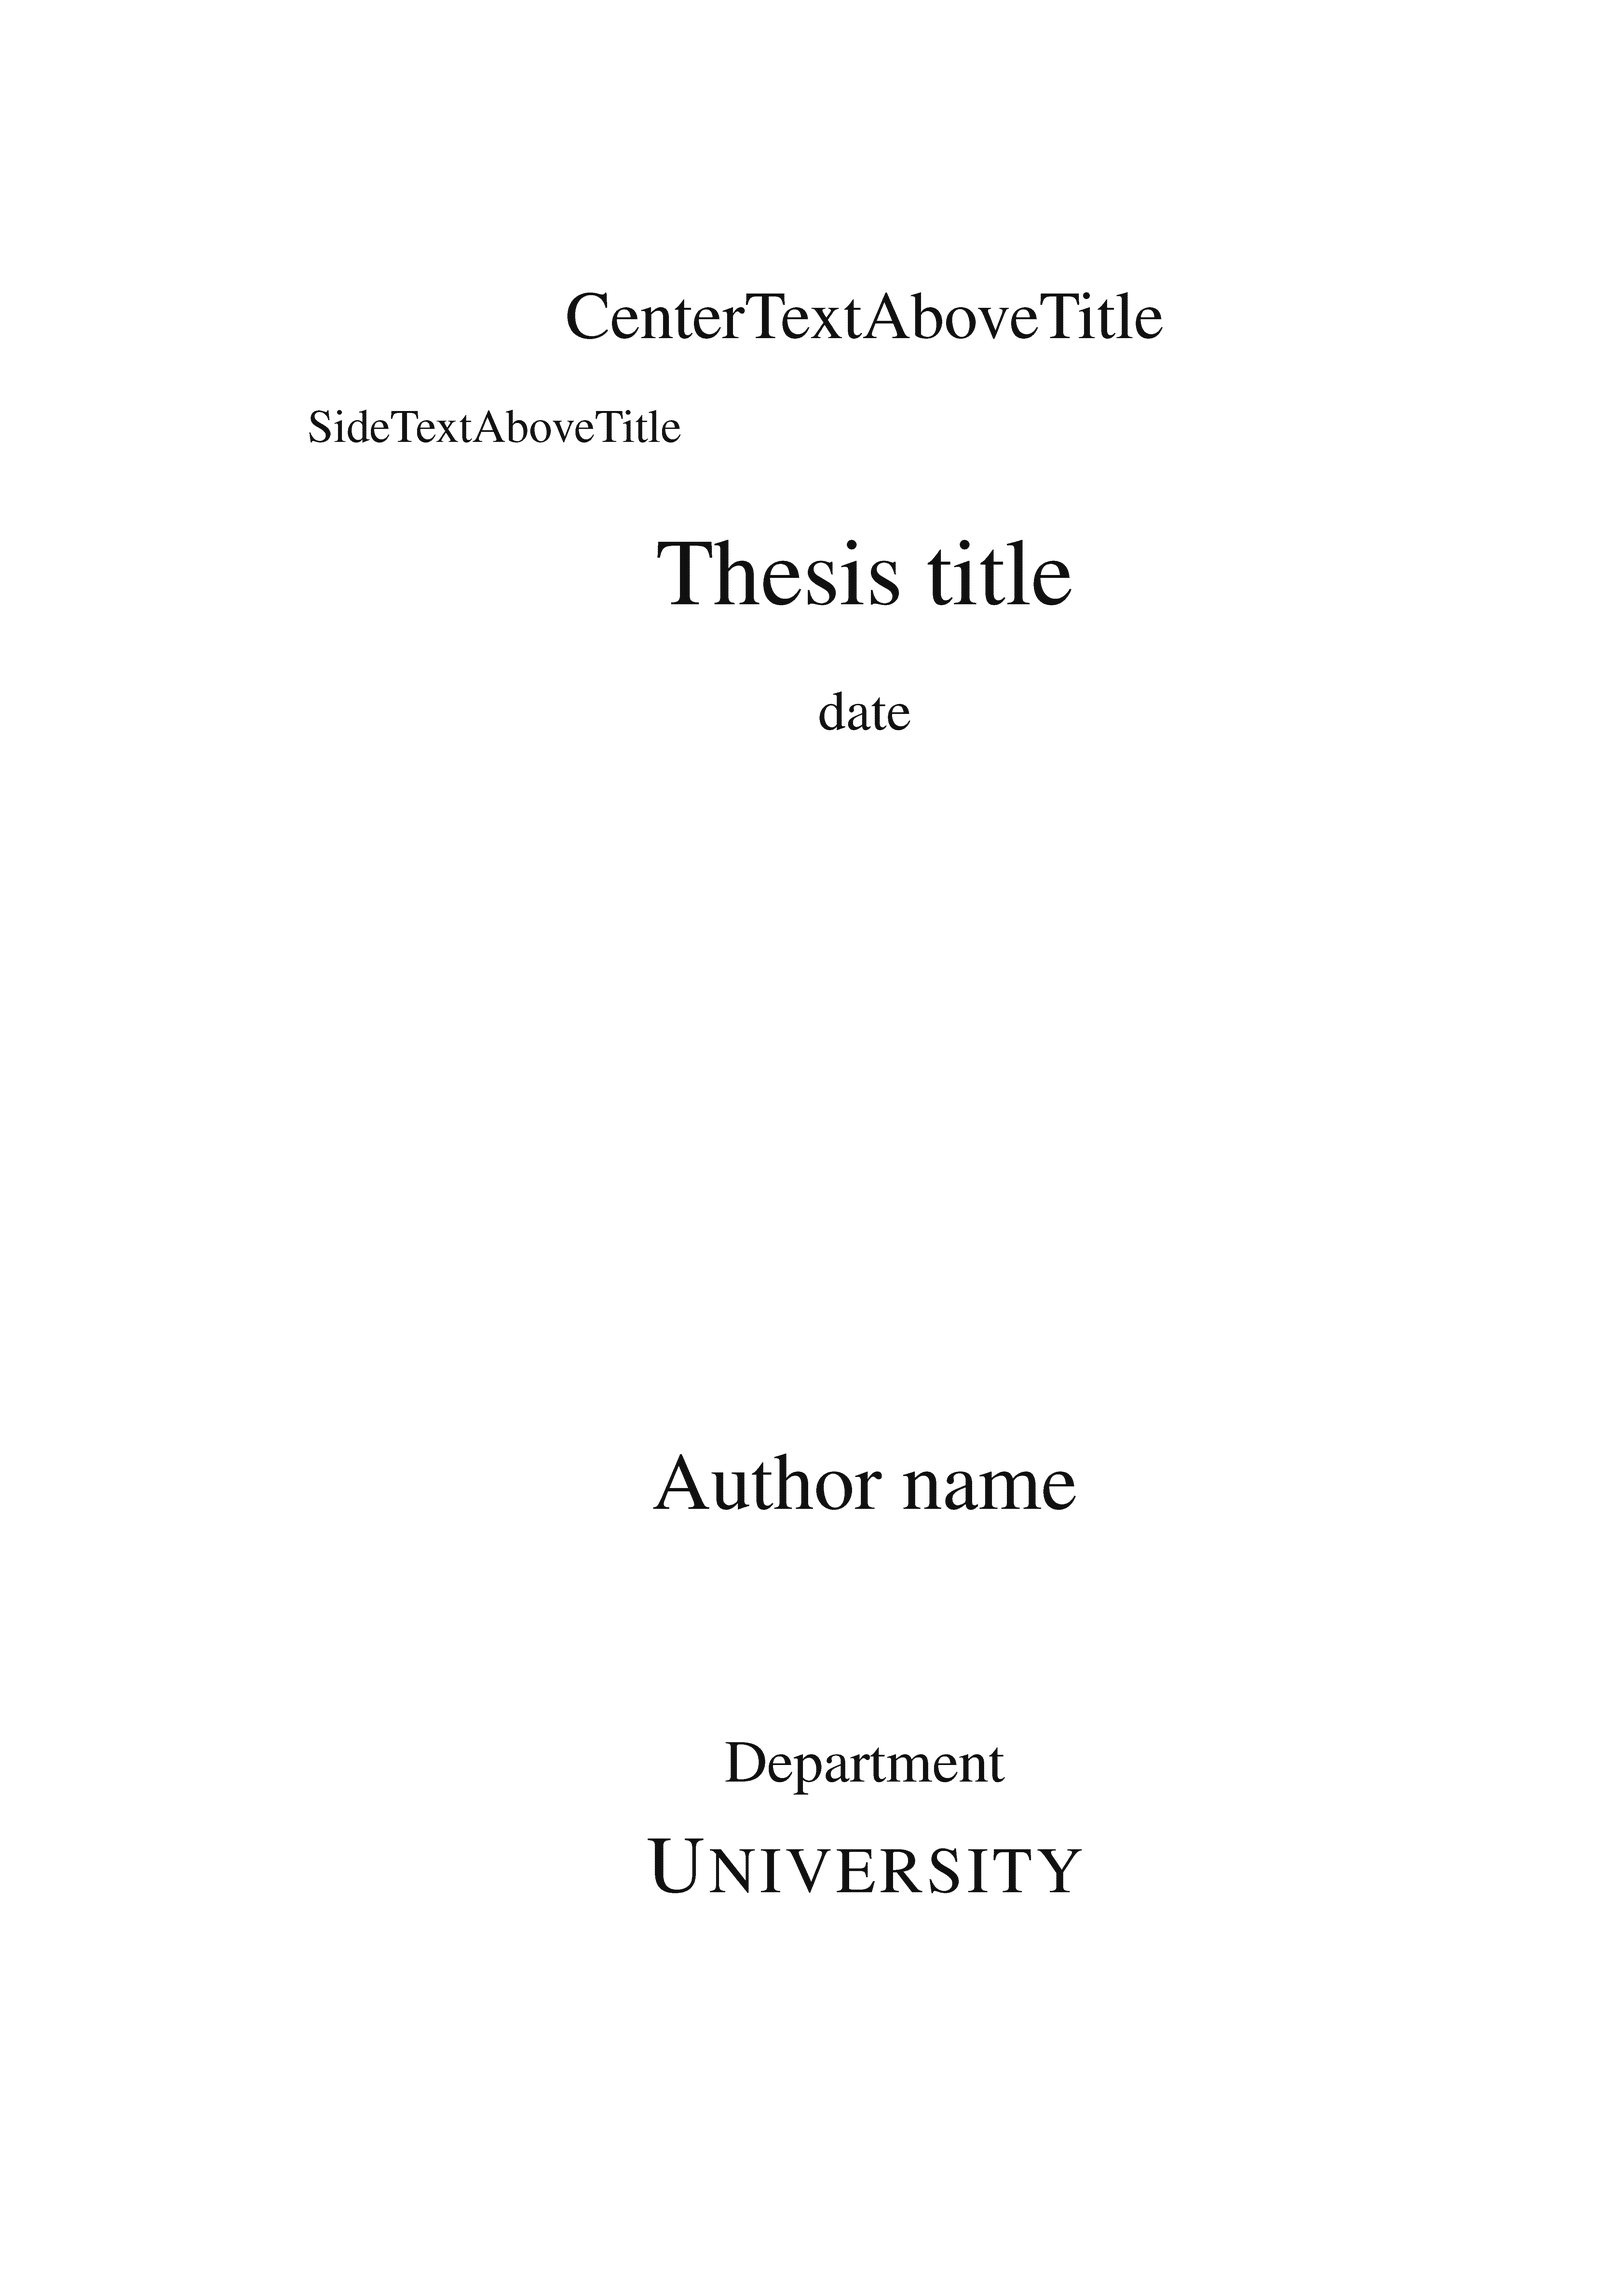
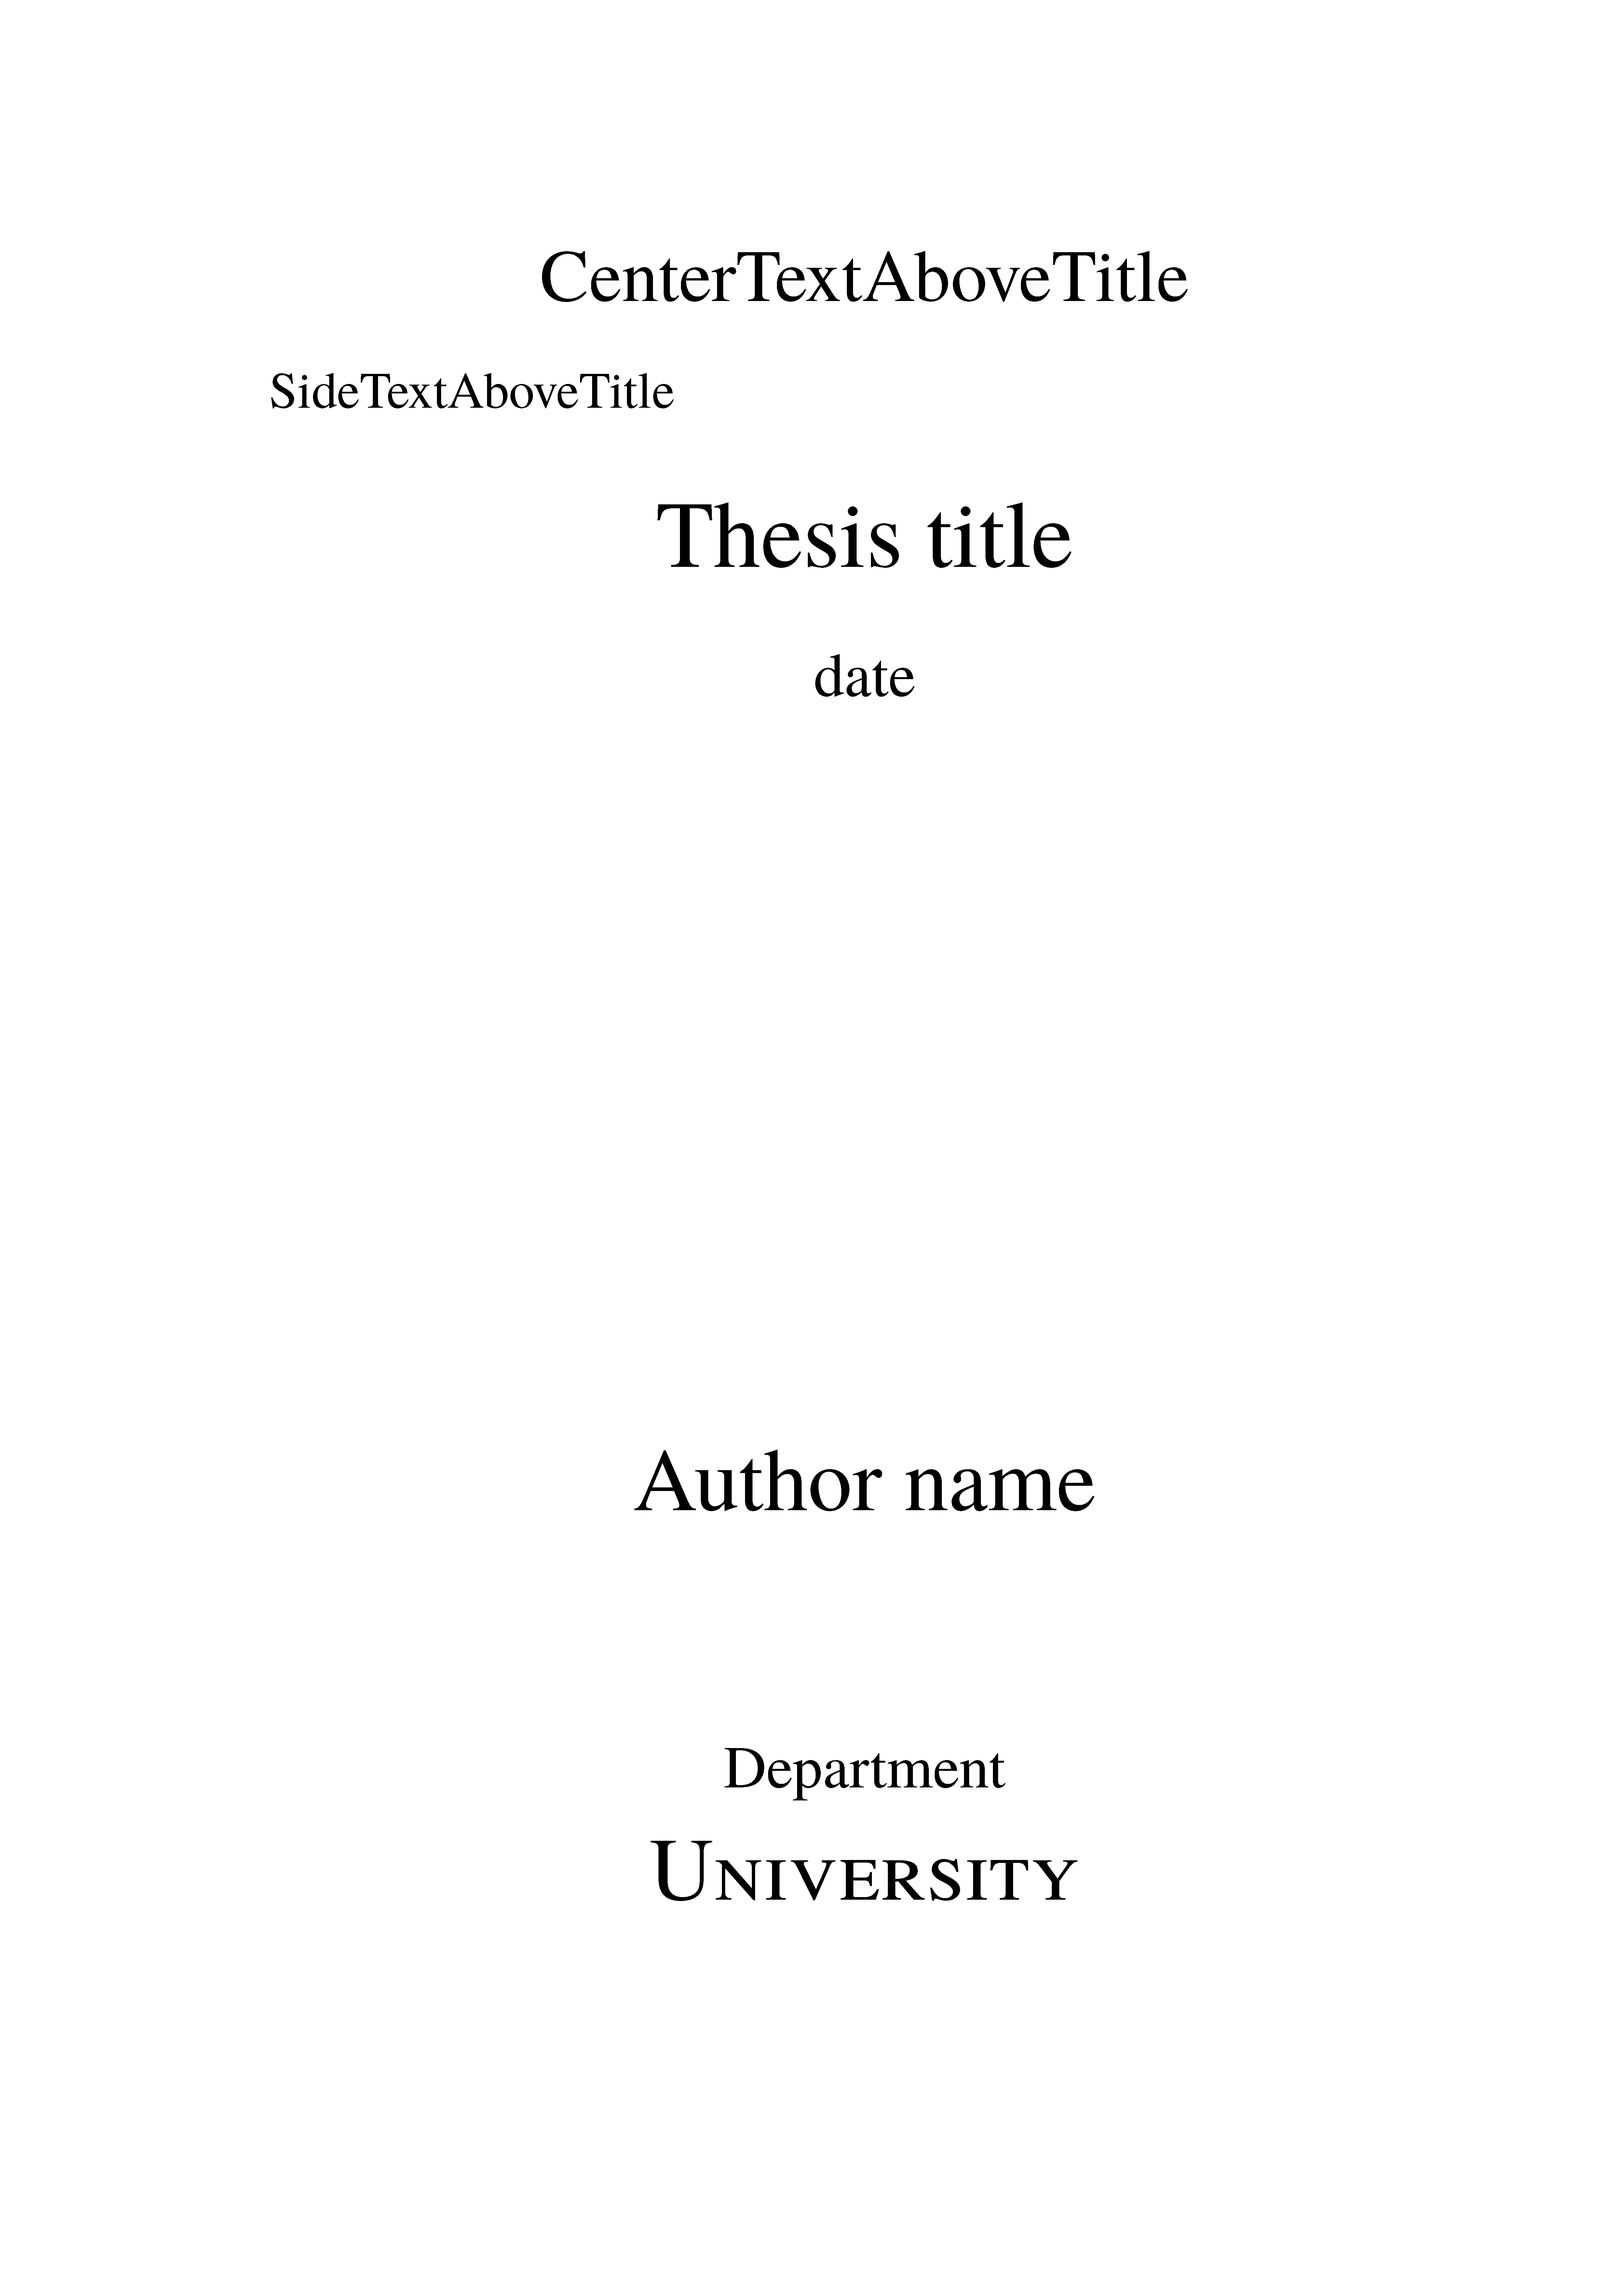
add times option & modify ja

diff --git a/sample.tex b/sample.tex
@@ -1,27 +1,102 @@
 \documentclass[
 	english,
-	fontsize=10pt,
-	left=40truemm,
-	right=25truemm,
-	% top=15truemm,
-	% bottom=20truemm,
-	% headrule,
+	times,
+	fontsize = 11pt,
+	left     = 35truemm,
+	right    = 20truemm,
+	top      = 15truemm,
+	bottom   = 20truemm,
+	headrule,
+	% draft,
+	% tombo,
 	% headfontsc,
-	% headsep=10truemm,
-	% fleqn
+	% headsep  = 10truemm,
+	fleqn,
+	reversemarginpar
 ]{ckthesis}
 
 
 %%%%%%%%%%%%%%%%%%%%%%%%%%%%%%%%%%%%%%%%%%%%%%%%%%%%%%%%%%%%%%%%%%
 % preamble
 %%%%%%%%%%%%%%%%%%%%%%%%%%%%%%%%%%%%%%%%%%%%%%%%%%%%%%%%%%%%%%%%%%
+% figure
+% \graphicspath{%
+% 	...
+% }
 
 %===============================%
-% packages
+% math font
 %===============================%
+% \usepackage[
+% 	subscriptcorrection,
+% 	slantedGreek,
+% 	nofontinfo,
+% 	mtpcal
+% ]{mtpro2}
+
+
+%===============================%
+% math packages
+%===============================%
+% math
+\usepackage{amsmath}
+\usepackage{mathtools}
+\usepackage{empheq}
+\usepackage{bm}
+\usepackage{siunitx}
 \usepackage{physics}
 \usepackage{braket} % after reading physics package
+
+
+%===============================%
+% todo
+%===============================%
+\usepackage[
+        textsize=scriptsize,
+        % textsize=footnotesize,
+        % color=Magenta,
+        linecolor=Magenta,
+        bordercolor=Magenta,
+        backgroundcolor=White,
+        disable
+        % textcolor
+]{todonotes}
+\usepackage{soul}
+\makeatletter
+	\if@todonotes@disabled
+	\newcommand{\hlnote}[3][0pt]{#2}
+	\else
+	\newcommand{\hlnote}[3][0pt]{\texthl{#2}\vspace{-#1}\todo{#3}\vspace{#1}}
+	\fi
+\makeatother
+
+
+%===============================%
+% caption
+%===============================%
+\usepackage{caption}
+\captionsetup[figure]{
+	textfont={small},
+	labelfont={sf,bf,small},
+	margin=0pt,
+	labelsep=space,
+	name=Figure\ {}%
+}
+\captionsetup[table]{
+	textfont={small},
+	labelfont={sf,bf,small},
+	margin=0pt,
+	labelsep=space,
+	name=Table\ {}%
+}
+
+
+%===============================%
+% other packages
+%===============================%
+\usepackage{xspace}
 \usepackage{here}
+\usepackage{enumitem}
 \usepackage[cmyk,dvipsnames]{xcolor}
 \usepackage[bookmarks]{hyperref}
 \usepackage[
@@ -29,6 +104,7 @@
 	backend=biber,
 	sorting=none
 ]{biblatex}
+\usepackage[utf8]{inputenc}
 \usepackage[figure,table]{totalcount}
 
 

diff --git a/sample_intro.tex b/sample_intro.tex
@@ -1,3 +1,25 @@
+% \chapter{序章}
+% 山路を登りながら，こう考えた。
+% 智に働けば角が立つ。
+% 情に棹させば流される。
+% 意地を通せば窮屈だ。
+% とかくに人の世は住みにくい。
+% 住みにくさが高じると，安い所へ引き越したくなる。
+% どこへ越しても住みにくいと悟った時，詩が生れて，画が出来る。
+% \begin{equation}
+%     \qty( \int_{0}^{\infty} \frac{\sin x}{\sqrt{x}} \dd x )^2
+%     =
+%     \sum_{ k = 0 }^{ \infty }
+%         \frac{ (2k)! }{ 2^{2k} (k!)^2 } \frac{1}{ 2k+1 }
+%     =
+%     \prod_{ k = 1 }^{ \infty }
+%         \frac{ 4k^2 }{ 4k^2 - 1 }
+%     = \frac{ \pi }{ 2 }
+% \end{equation}
+
+
+
+
 \chapter{Introduction}
 Introduction
 
@@ -20,6 +42,13 @@ sunt in culpa qui officia deserunt mollit anim id est laborum\cite{PaperSample1}
         \frac{ 4k^2 }{ 4k^2 - 1 }
     = \frac{ \pi }{ 2 }
 \end{equation}
+
+% \begin{figure}
+%     \centering
+%     \includegraphics[options]{name}
+%     \caption{caption}
+%     \label{fig:1}
+% \end{figure}
 
 
 \clearpage

diff --git a/README.md b/README.md
@@ -45,17 +45,18 @@ $ sudo mktexlsr
 
 ### Class options
 
-- `fontsize` (default: `10pt`): fontsize of ltjsbook class (`10pt`, `11pt`, `12pt`)
-- `left`   (default: `40truemm`): left margin dimension at odd pages
-- `right`  (default: `25truemm`): right margin dimension at odd pages
-- `top`    (default: `25truemm`): top margin dimension
-- `bottom` (default: `25truemm`): bottom margin dimension
+- `english` [boolean]: if true: the document language is English, otherwise Japanese
+- `times` [boolean]:  if true: times font is used
+- `draft` [boolean]: if true: all figures are converted to boxes and all hyperlinks are removed.
+- `fontsize` (default: `11pt`): fontsize of ltjsbook class (`10pt`, `11pt`, `12pt`)
+- `left`   (default: `35truemm`): left margin dimension at odd pages
+- `right`  (default: `20truemm`): right margin dimension at odd pages
+- `top`    (default: `15truemm`): top margin dimension
+- `bottom` (default: `20truemm`): bottom margin dimension
 - `headsep` (default: `10truemm`): vertical length between the header and the top of the text area
-- `english` [boolean]: if this option is specified, the document language is English, otherwise Japanese
-- `draft` [boolean]: all figures are converted to boxes and all hyperlinks are removed.
-- `headrule` [boolean]: header with rule line
-- `headfontsc` [boolean]: heading font is Pagella small caps
-- `reversemarginpar` [boolean]: use \reversemarginpar and adjust \marginparwidth
+- `headrule` [boolean]: if true: header with rule line
+- `headfontsc` [boolean]: if true: heading font is Pagella small caps
+- `reversemarginpar` [boolean]: if true: use \reversemarginpar and adjust \marginparwidth
 
 Other: same options in ltjsbook (e.g. `fleqn`)
 
@@ -63,17 +64,20 @@ e.g.
 
 ```latex
 \documentclass[
-        english,
-        fontsize=10pt,
-        left=35truemm,
-        right=20truemm,
-        top=15truemm,
-        bottom=20truemm,
-        headrule,
-        headfontsc,
-        headsep=10truemm,
-	reversemarginpar,
-        fleqn
+    english,
+    times,
+    fontsize = 11pt,
+    left     = 35truemm,
+    right    = 20truemm,
+    top      = 15truemm,
+    bottom   = 20truemm,
+    headrule,
+    draft,
+    tombo,
+    headfontsc,
+    headsep  = 10truemm,
+    fleqn,
+    reversemarginpar
 ]{ckthesis}
 ```
 
@@ -178,4 +182,7 @@ The file in this format can be easily obtained from the paper's website. For ins
 ![img6](sample/img6_chap1_even.png)
 
 ![img7](sample/img7_reference.png)
+
+![img8](sample/img8_chap1_odd_ja.png)
+
 
